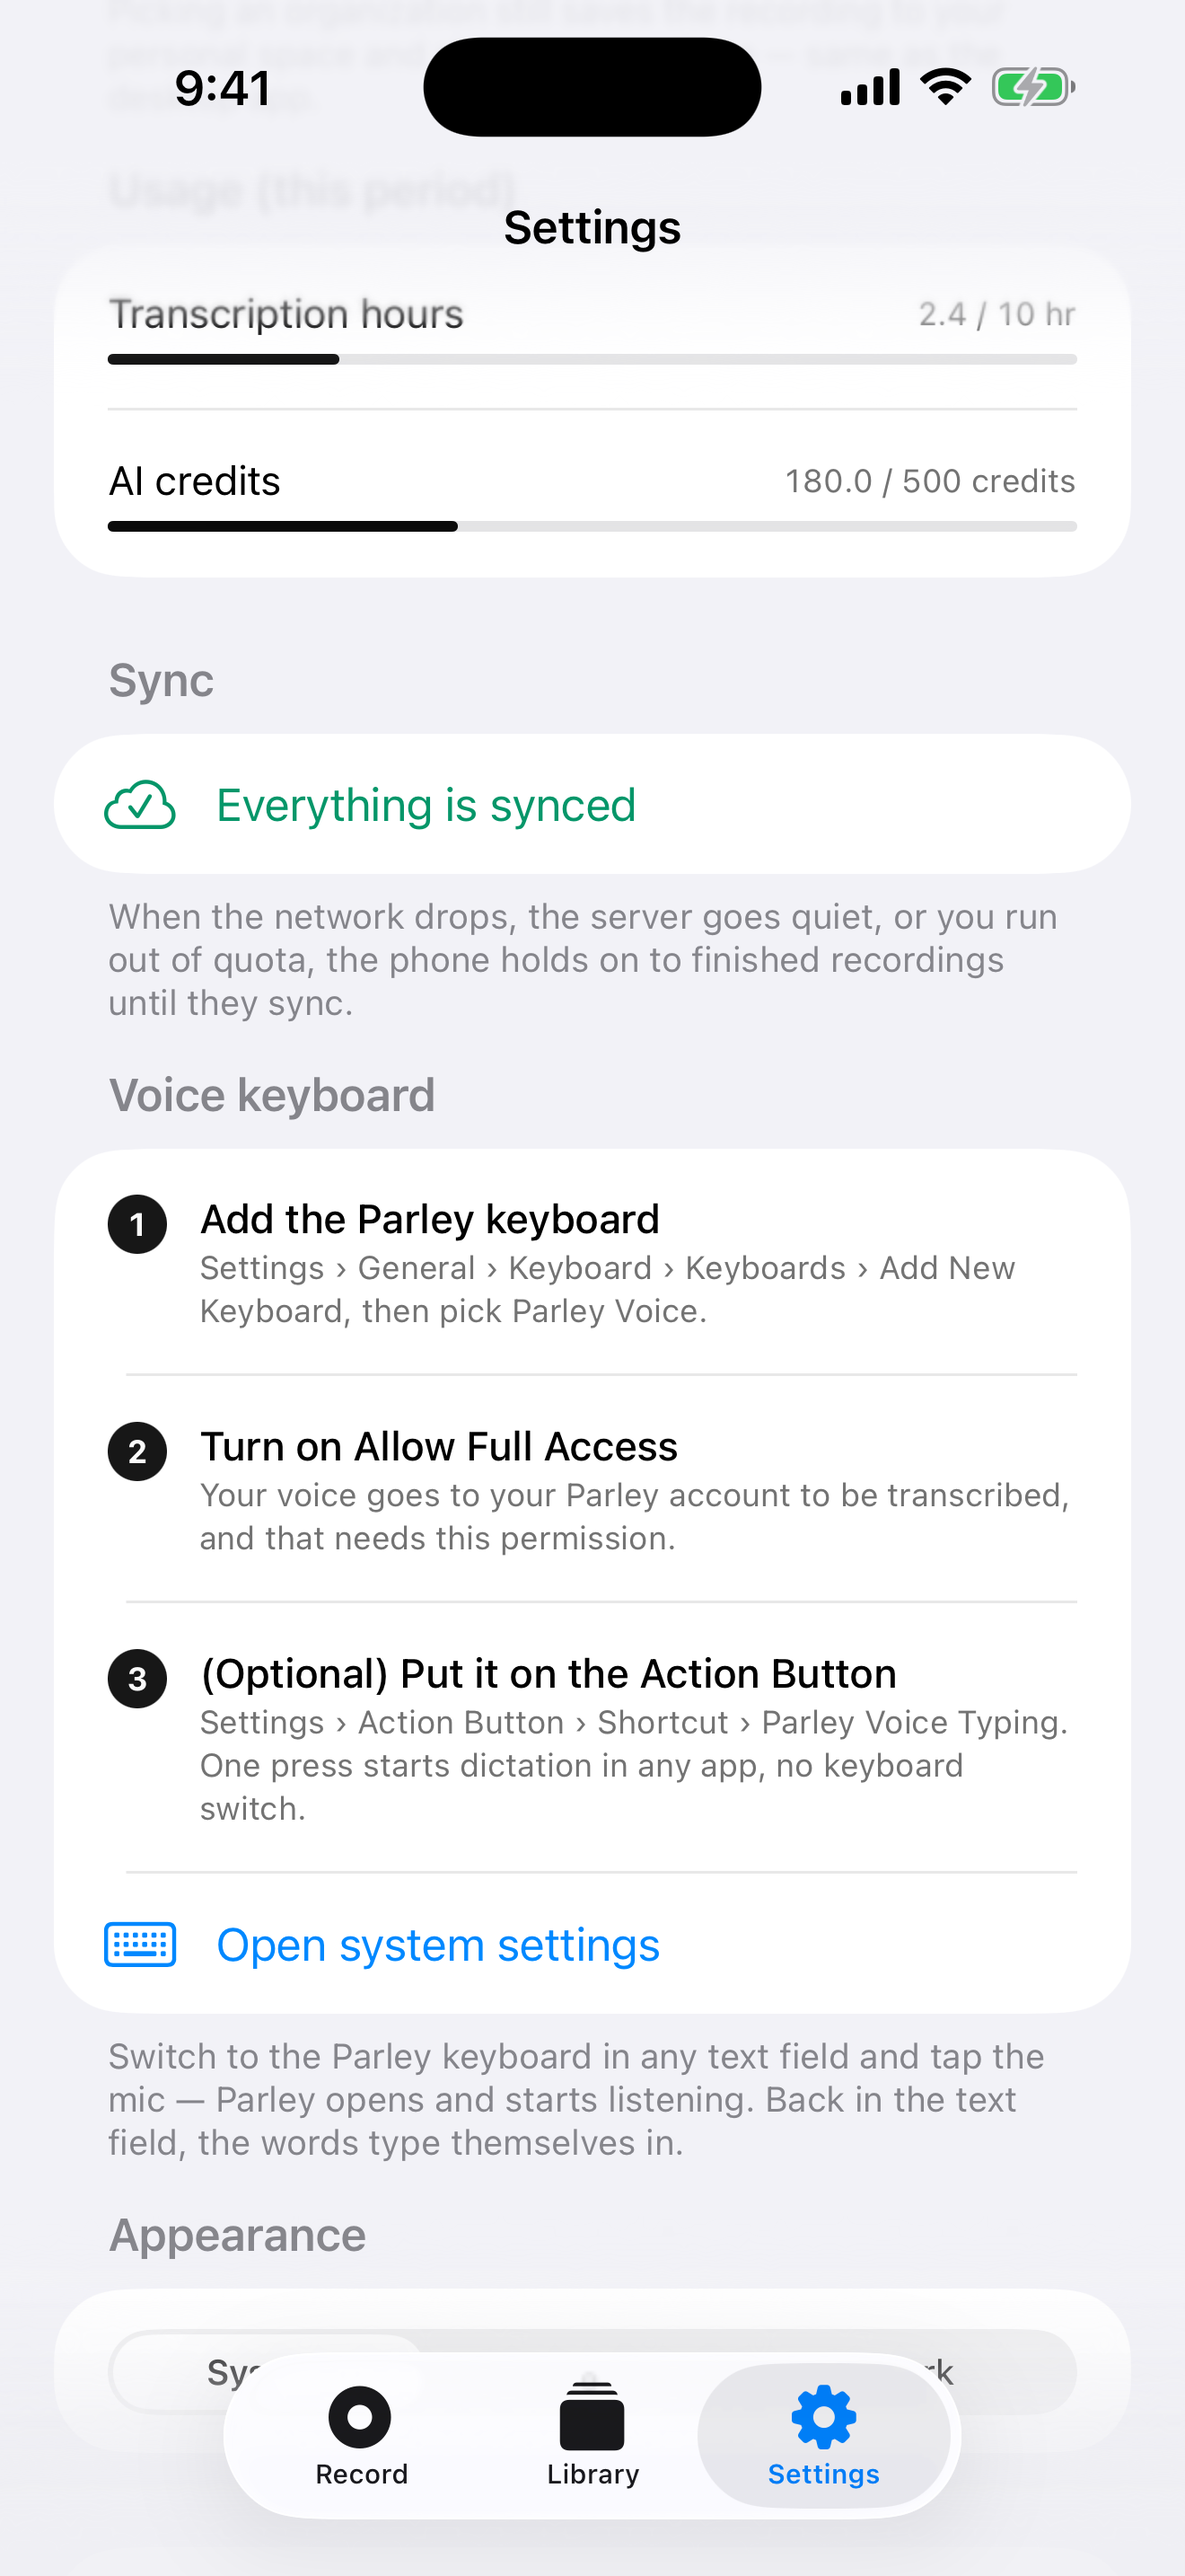
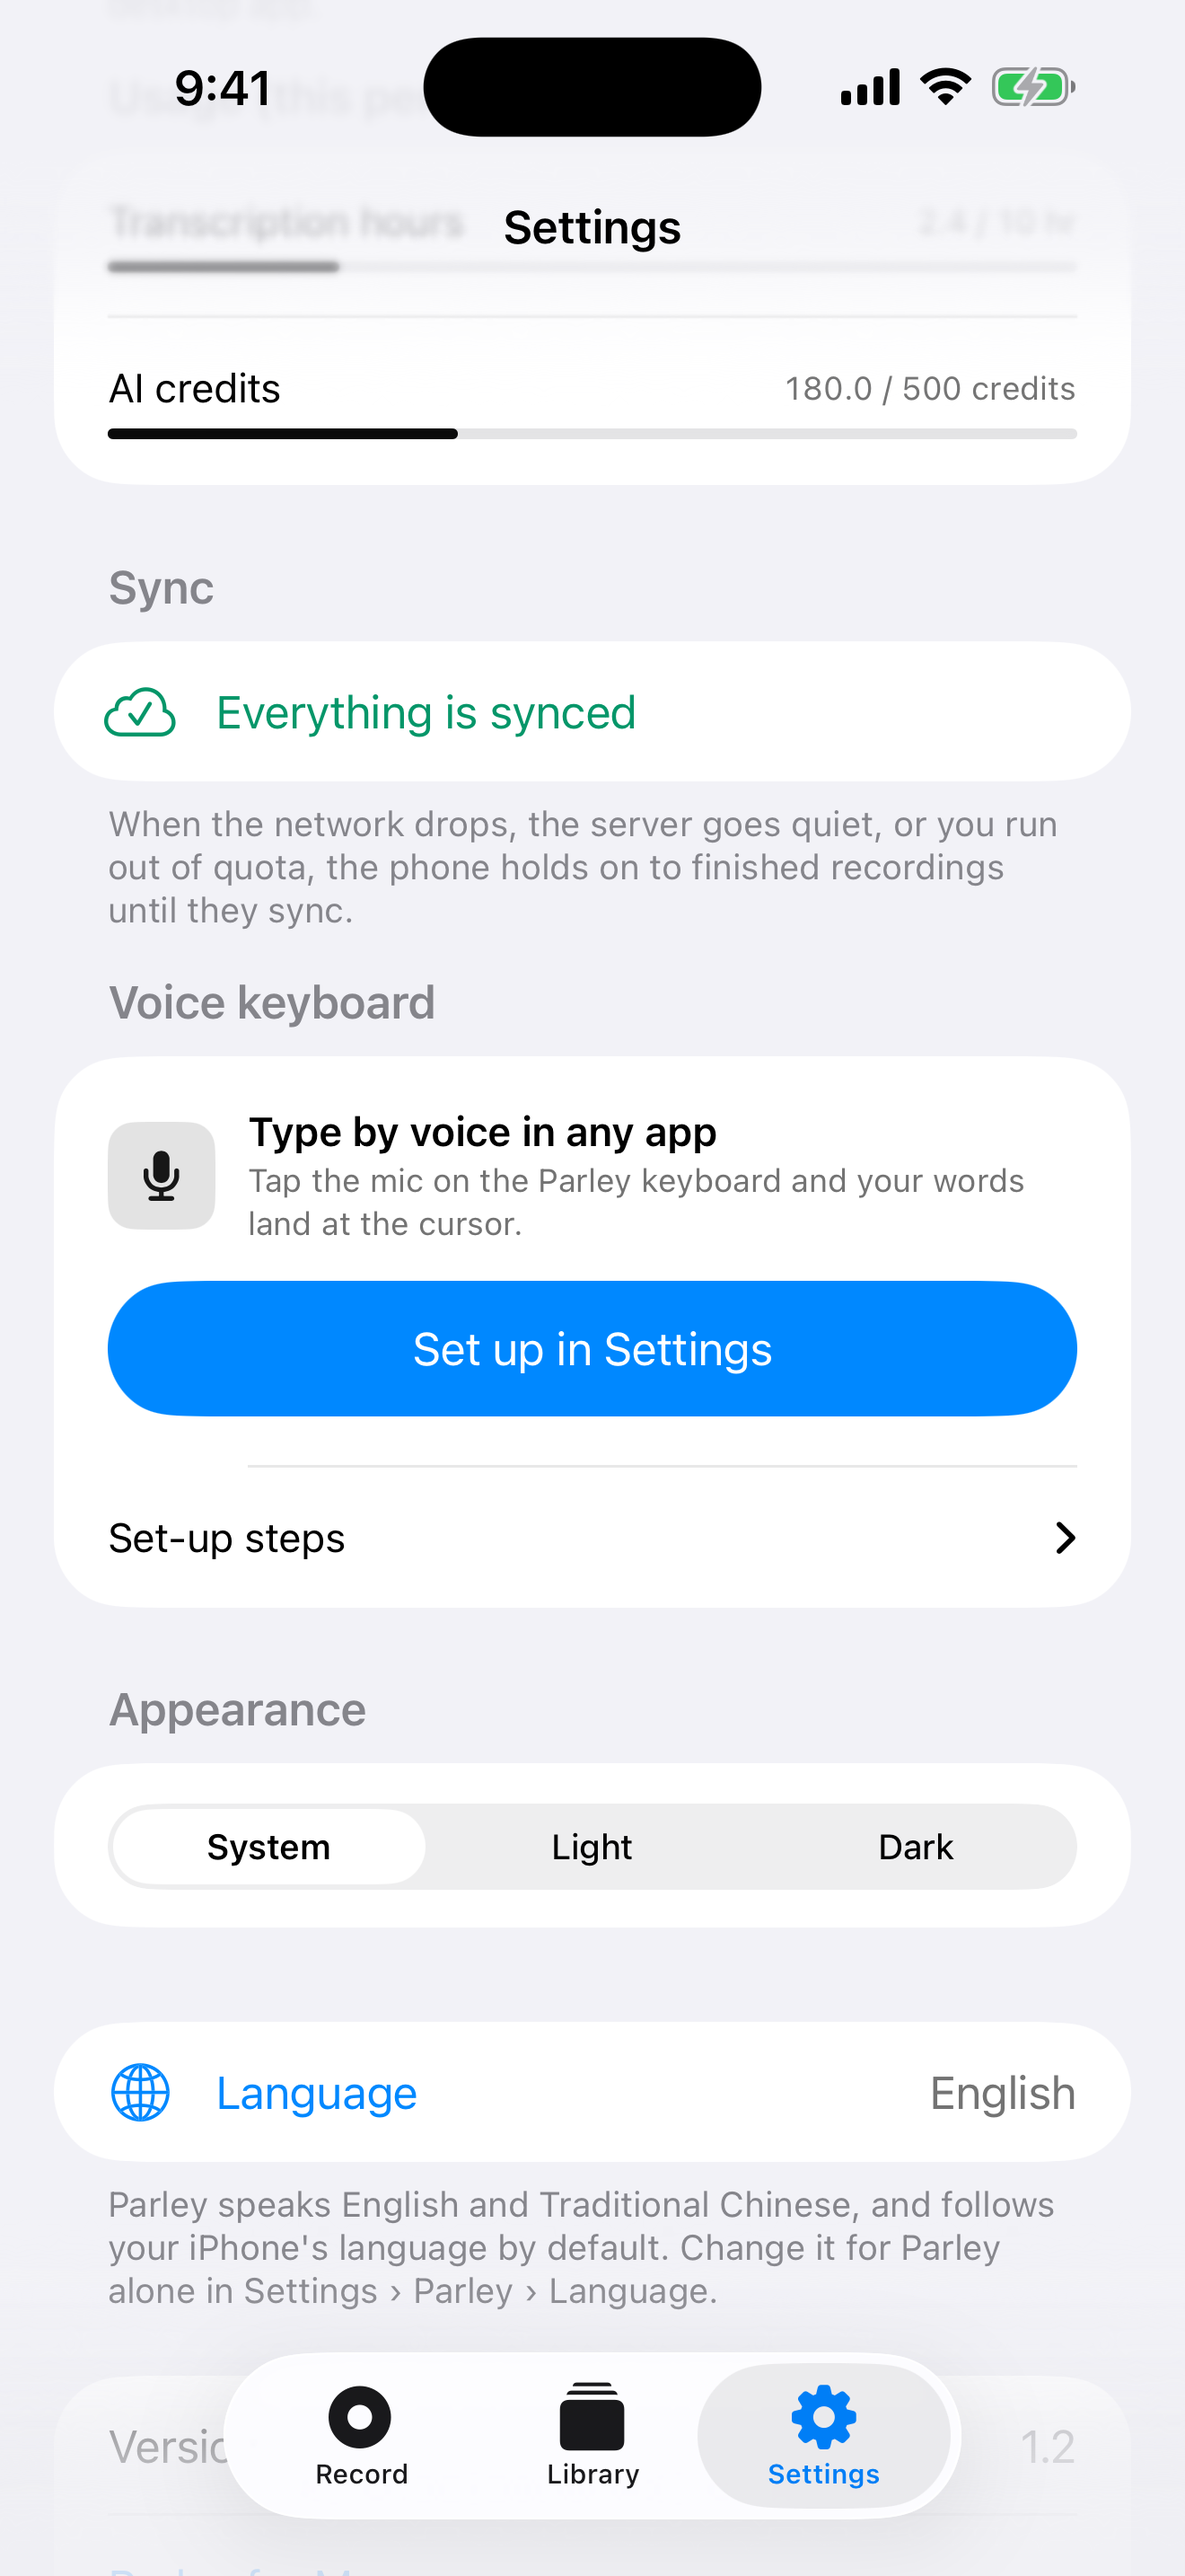
[feature] ios: cleaner voice-keyboard onboarding in Settings
The Voice keyboard section dumped three always-open numbered steps plus two
paragraphs — a wall of text. Replace it with an onboarding card: one value
line, a single 'Set up in Settings' button (a keyboard app's own Settings page
carries the Keyboards row and the Allow Full Access switch), and the detailed
steps folded behind a 'Set-up steps' disclosure for whoever wants them.

Bumps the build to 1.2 (8) and regenerates the affected App Store screenshots.
en + zh-Hant strings updated.

diff --git a/ios/App/Parley/SettingsView.swift b/ios/App/Parley/SettingsView.swift
@@ -326,31 +326,59 @@ struct SettingsView: View {
 
     // MARK: voice keyboard
 
-    /// How to turn on the Parley keyboard and the Action Button trigger. Both
-    /// live in the system Settings app, so this section explains the steps and
-    /// jumps there — iOS gives no API to toggle them for the user.
+    /// Onboarding for the voice keyboard. Deliberately not a wall of steps:
+    /// one line on what it does, one button to the place that actually has the
+    /// toggles (a keyboard app's own Settings page carries the Keyboards row
+    /// and the Allow Full Access switch), and the detailed steps folded away
+    /// for the people who want them. iOS gives no API to flip these for the
+    /// user, so a jump plus on-demand steps is as far as it goes.
     private var dictationSection: some View {
         Section {
-            dictationStep(
-                number: 1, title: "Add the Parley keyboard",
-                detail: "Settings › General › Keyboard › Keyboards › Add New Keyboard, then pick Parley Voice.")
-            dictationStep(
-                number: 2, title: "Turn on Allow Full Access",
-                detail: "Your voice goes to your Parley account to be transcribed, and that needs this permission.")
-            dictationStep(
-                number: 3, title: "(Optional) Put it on the Action Button",
-                detail: "Settings › Action Button › Shortcut › Parley Voice Typing. One press starts dictation in any app, no keyboard switch.")
-            Button {
-                if let url = URL(string: UIApplication.openSettingsURLString) {
-                    UIApplication.shared.open(url)
+            VStack(alignment: .leading, spacing: 14) {
+                HStack(spacing: 12) {
+                    Image(systemName: "mic.fill")
+                        .font(.headline)
+                        .foregroundStyle(Theme.primary)
+                        .frame(width: 40, height: 40)
+                        .background(
+                            RoundedRectangle(cornerRadius: 10)
+                                .fill(Theme.primary.opacity(0.12)))
+                    VStack(alignment: .leading, spacing: 2) {
+                        Text("Type by voice in any app")
+                            .font(.subheadline.weight(.semibold))
+                        Text("Tap the mic on the Parley keyboard and your words land at the cursor.")
+                            .font(.caption)
+                            .foregroundStyle(Theme.mutedForeground)
+                            .fixedSize(horizontal: false, vertical: true)
+                    }
                 }
+                Button {
+                    if let url = URL(string: UIApplication.openSettingsURLString) {
+                        UIApplication.shared.open(url)
+                    }
+                } label: {
+                    Text("Set up in Settings").frame(maxWidth: .infinity)
+                }
+                .buttonStyle(.borderedProminent)
+                .controlSize(.large)
+            }
+            .padding(.vertical, 4)
+
+            DisclosureGroup {
+                dictationStep(
+                    number: 1, title: "Add the keyboard",
+                    detail: "In Keyboards → Add New Keyboard, pick Parley Voice.")
+                dictationStep(
+                    number: 2, title: "Allow Full Access",
+                    detail: "Lets your voice reach your Parley account to be transcribed.")
+                dictationStep(
+                    number: 3, title: "Action Button (optional)",
+                    detail: "Map it to Parley Voice Typing to start dictation without switching keyboards.")
             } label: {
-                Label("Open system settings", systemImage: "keyboard")
+                Text("Set-up steps").font(.subheadline)
             }
         } header: {
             Text("Voice keyboard")
-        } footer: {
-            Text("Switch to the Parley keyboard in any text field and tap the mic — Parley opens and starts listening. Back in the text field, the words type themselves in.")
         }
     }
 
